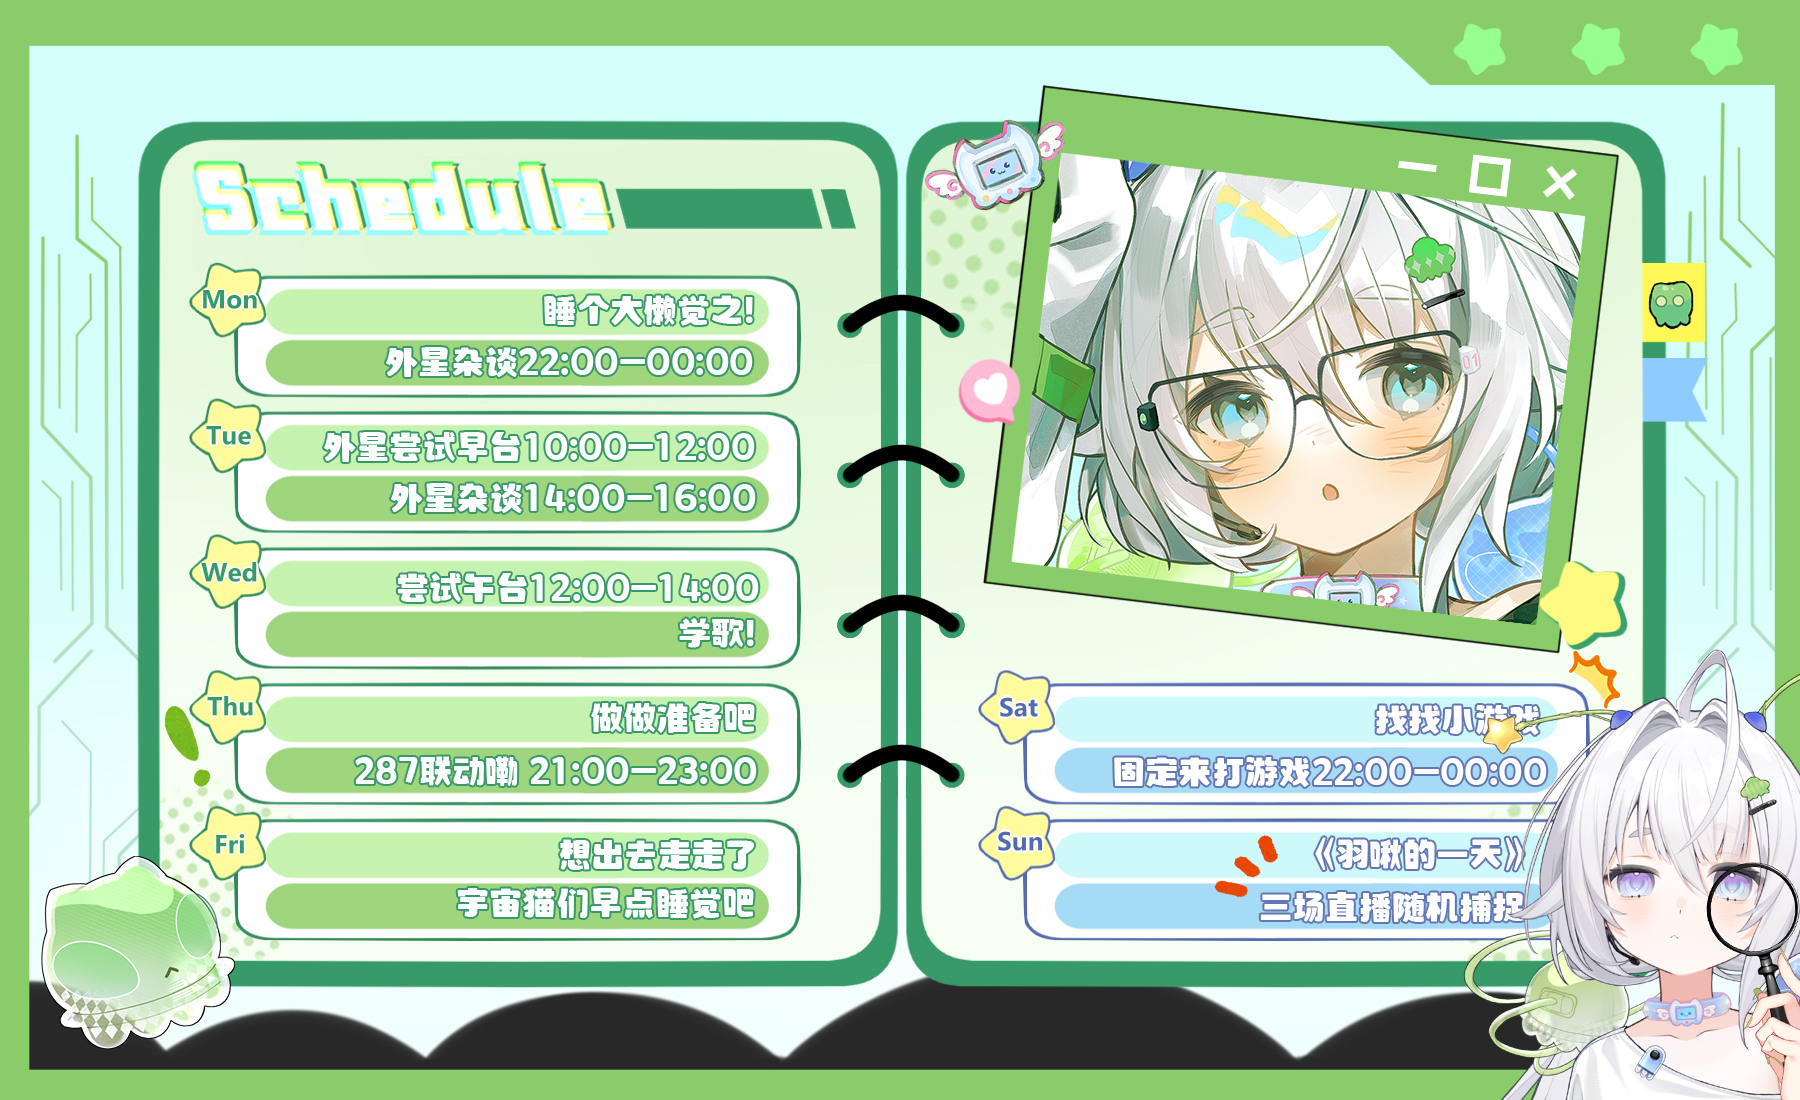
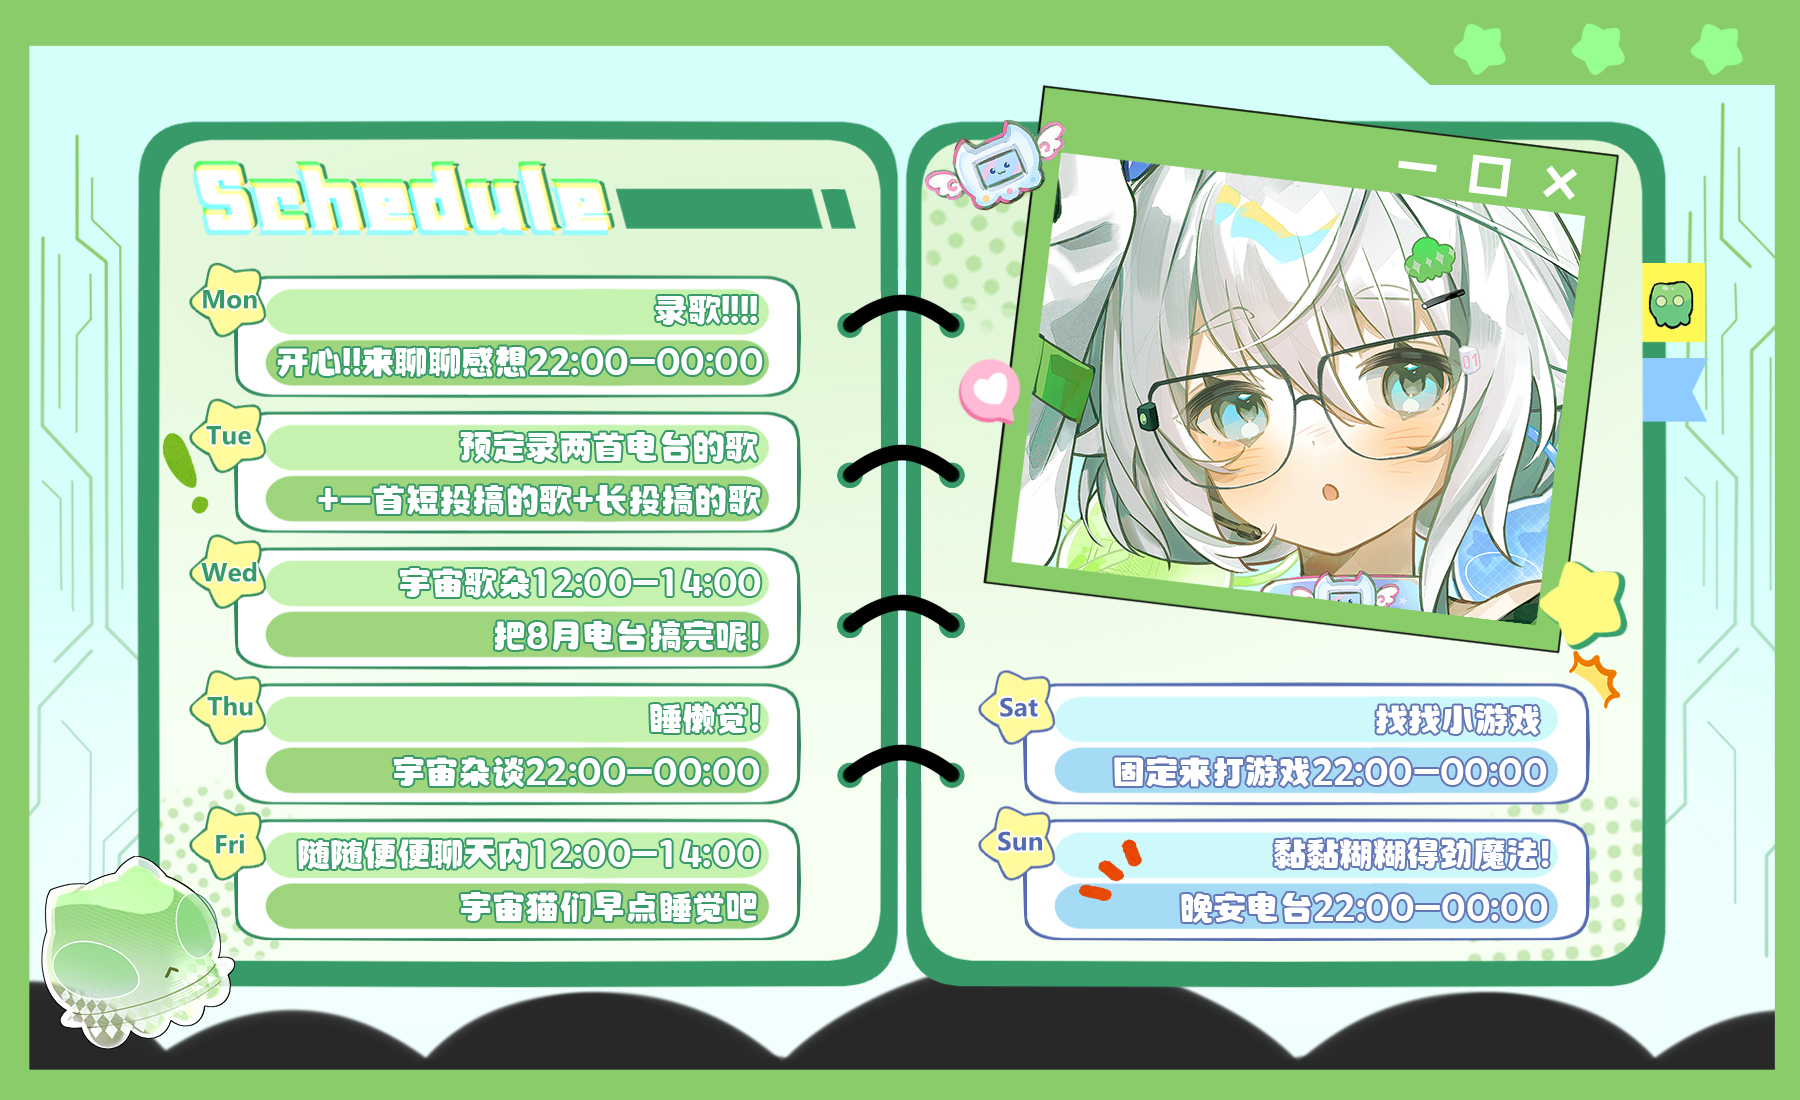
自动更新 2026-09-15 01:49

diff --git a/index.html b/index.html
@@ -292,7 +292,7 @@
     <h2><span class="no">QUEST</span>每周计划</h2>
   </div>
   <div class="wk-head reveal">
-    <span class="wk-status"><span class="dot" aria-hidden="true"></span><span id="planWhen">更新于 <span class="wk-date">2026年9月11日</span></span></span>
+    <span class="wk-status"><span class="dot" aria-hidden="true"></span><span id="planWhen">更新于 <span class="wk-date">2026年9月15日</span></span></span>
     <h2 class="wk-title">本周计划</h2>
     <p class="wk-sub">周表内容来自主页置顶动态的第一张图，每周自动检查一次，置顶动态更新后自动抓取替换。</p>
     <ul class="wk-list">
